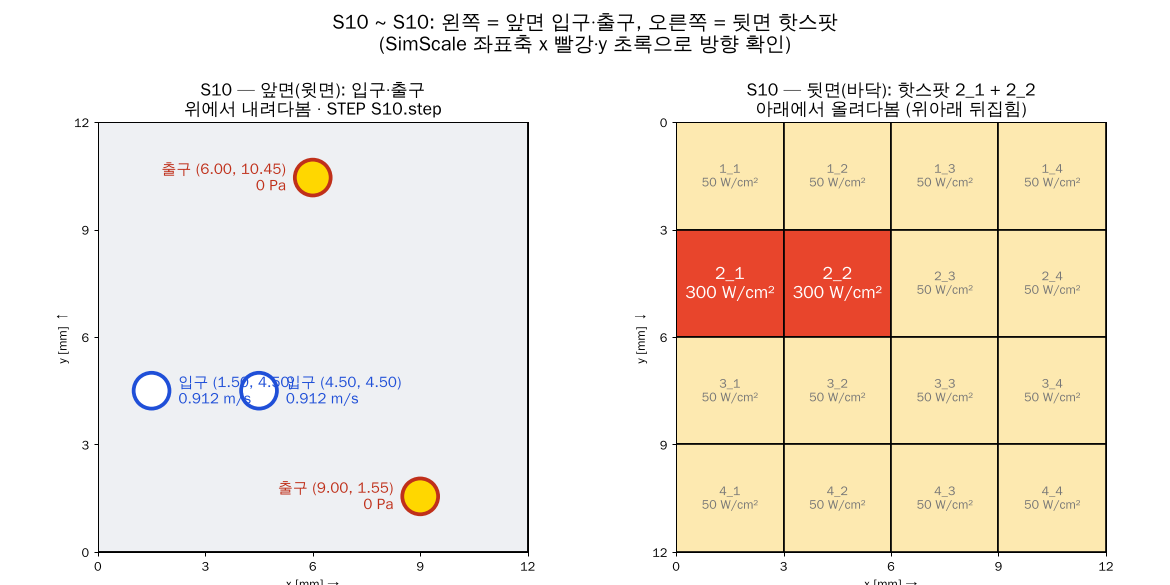
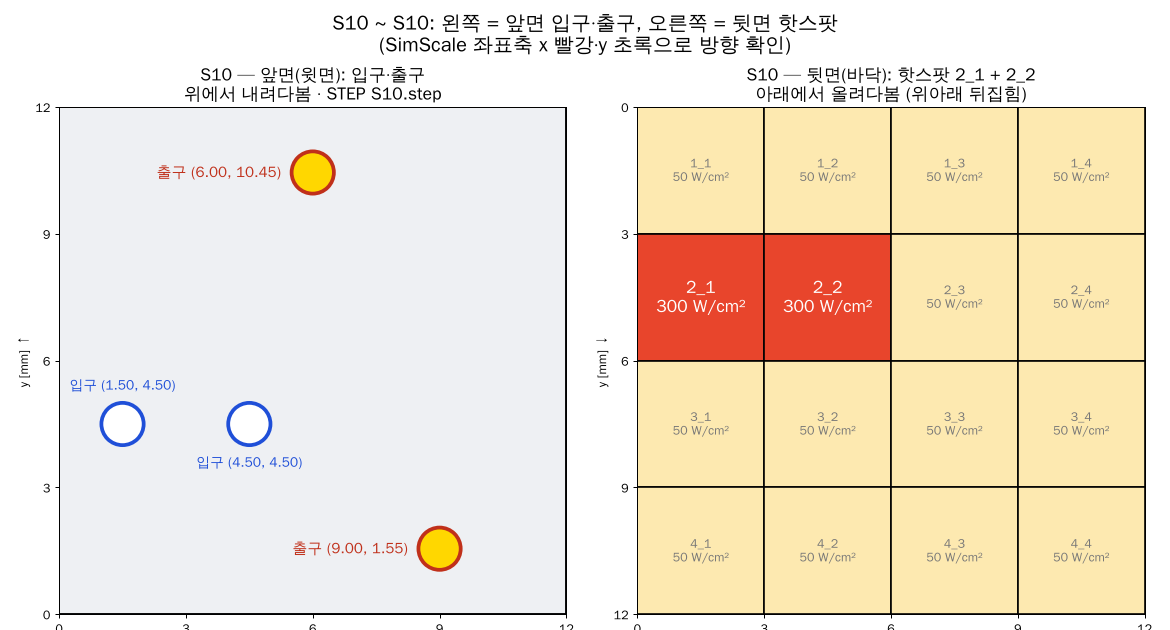
Front/back guide: separate labels for nearby ports; S10 guide
Claude-Session: https://claude.ai/code/session_01F34fVoYo4PK5WAY5b6GT71

Changed region(s): [[0.0308, 0.0, 0.9846, 1.0], [0.0308, 0.8, 0.4923, 1.0], [0.0, 0.5538, 0.3385, 0.7385]]

diff --git a/manifold_agent/geometry/plot_front_back.py b/manifold_agent/geometry/plot_front_back.py
@@ -10,7 +10,7 @@ import sys
 RUNS = [("S4", "1_3,1_4", "S4.step"), ("S5", "2_1,2_2", "S5.step"), ("S6", "3_3,3_4", "S6.step"), ("S7", "2_2,3_2", "S6.step (S6과 같은 모양)")]
 if len(sys.argv) > 1:   # 예: S8:2_1,2_2 S9:3_3,3_4
     RUNS = [(a.split(":")[0], a.split(":")[1], a.split(":")[0] + ".step") for a in sys.argv[1:]]
-fig, axs = plt.subplots(len(RUNS), 2, figsize=(13, 6.5 * len(RUNS)))
+fig, axs = plt.subplots(len(RUNS), 2, figsize=(13, 7 * len(RUNS)))
 import numpy as _np
 axs = _np.atleast_2d(axs)
 for row, (k, hs, stp) in enumerate(RUNS):
@@ -18,12 +18,16 @@ for row, (k, hs, stp) in enumerate(RUNS):
     a, b = axs[row]
     # 앞면: 입구·출구
     a.add_patch(Rectangle((0, 0), 12, 12, fc="#eef0f3", ec="k", lw=1.5))
-    for (x, y) in m["pin"]:
-        a.add_patch(Circle((x, y), .5, fc="white", ec="#1f4fd8", lw=3))
-        a.text(x + .75, y, f"입구 ({x:.2f}, {y:.2f})\n0.912 m/s", va="center", fontsize=12, color="#1f4fd8", weight="bold")
-    for (x, y) in m["pout"]:
-        a.add_patch(Circle((x, y), .5, fc="gold", ec="#c0301a", lw=3))
-        a.text(x - .75, y, f"출구 ({x:.2f}, {y:.2f})\n0 Pa", va="center", ha="right", fontsize=12, color="#c0301a", weight="bold")
+    def lab(pts, txt, col, fc):
+        for i, (x, y) in enumerate(pts):
+            a.add_patch(Circle((x, y), .5, fc=fc, ec=col, lw=3))
+            near = any(abs(x - q[0]) < 4 and abs(y - q[1]) < 1.5 for j, q in enumerate(pts) if j != i)   # 가까운 포트: 위·아래로 나눠 씀
+            if near:
+                a.text(x, y + (.75 if i == 0 else -.75), f"{txt} ({x:.2f}, {y:.2f})", ha="center", va="bottom" if i == 0 else "top", fontsize=11, color=col, weight="bold")
+            else:
+                ha = "left" if x < 6 else "right"
+                a.text(x + (.75 if x < 6 else -.75), y, f"{txt} ({x:.2f}, {y:.2f})", va="center", ha=ha, fontsize=12, color=col, weight="bold")
+    lab(m["pin"], "입구", "#1f4fd8", "white"); lab(m["pout"], "출구", "#c0301a", "gold")
     a.set_xlim(0, 12); a.set_ylim(0, 12); a.set_xlabel("x [mm] →"); a.set_ylabel("y [mm] ↑")
     a.set_title(f"{k} — 앞면(윗면): 입구·출구\n위에서 내려다봄 · STEP {stp}", fontsize=14, weight="bold")
     # 뒷면: 핫스팟
